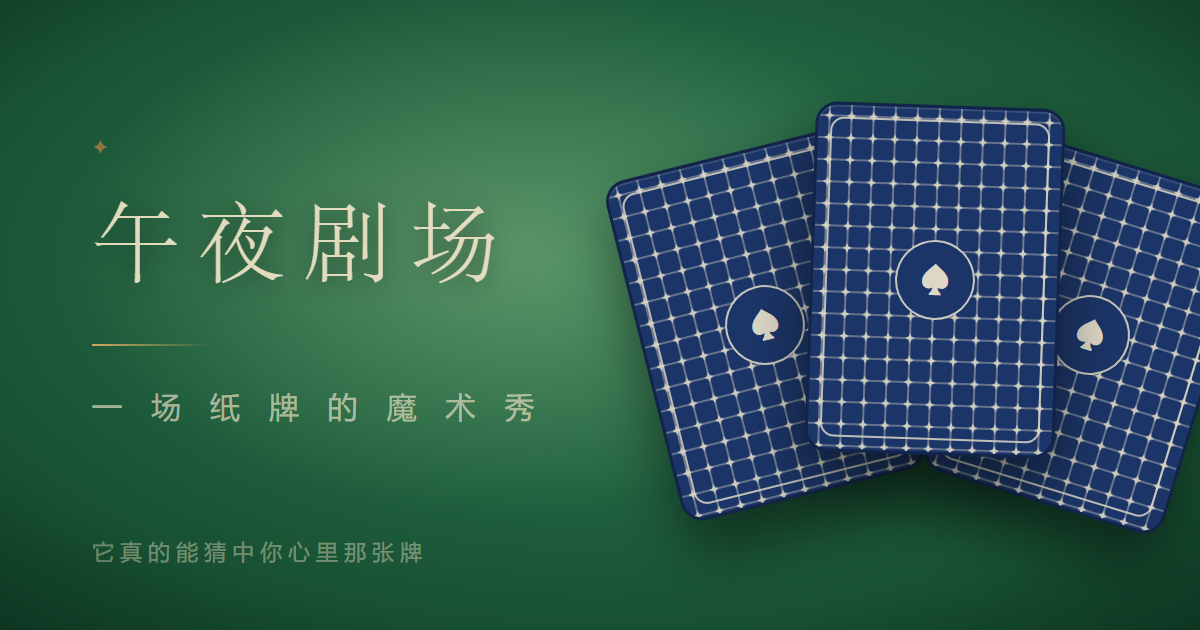
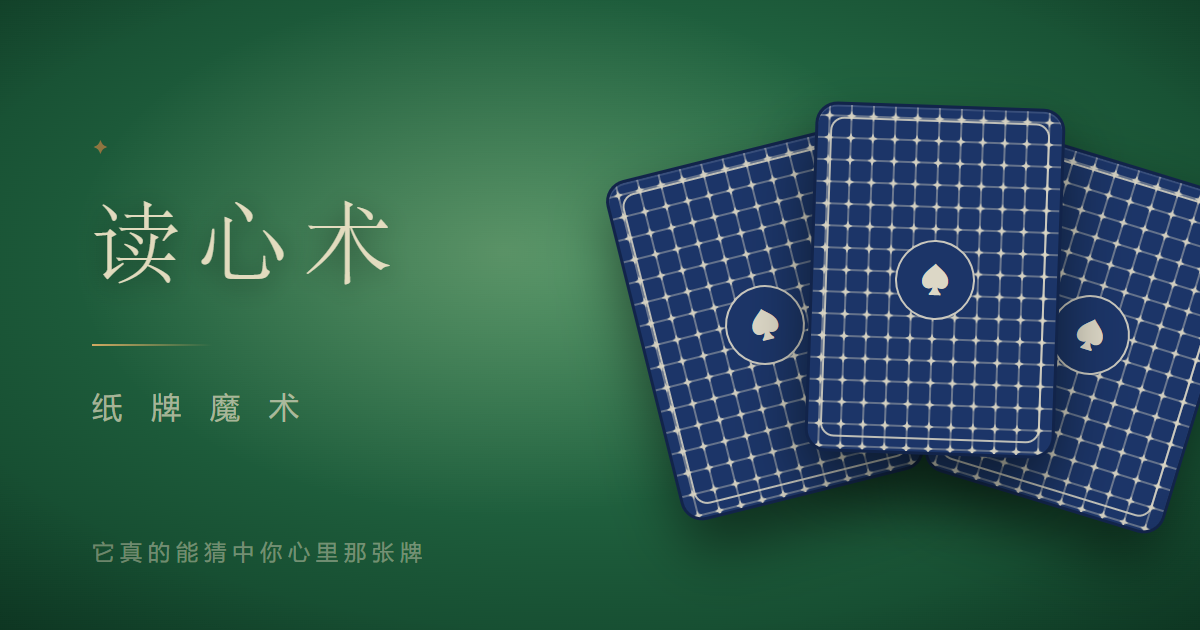
更名为「读心术-纸牌魔术」：页面标题/分享卡 meta/开场大字/分享图/双语字典/README

Changed region(s): [[0.0617, 0.3016, 0.4317, 0.4524], [0.0617, 0.6032, 0.4625, 0.6937]]

diff --git a/index.html b/index.html
@@ -5,12 +5,12 @@
   <meta name="viewport" content="width=device-width, initial-scale=1.0">
   <meta name="theme-color" content="#070b08">
   <meta name="description" content="在手机上就能玩的近景纸牌魔术——它真的能猜中你心里那张牌。纯前端，打开即玩。">
-  <title>午夜剧场 · 纸牌魔术秀</title>
+  <title>读心术-纸牌魔术</title>
 
   <!-- 分享卡片：微信/QQ/WhatsApp/Telegram/iMessage/Discord 抓取 -->
   <meta property="og:type" content="website">
-  <meta property="og:site_name" content="午夜剧场">
-  <meta property="og:title" content="午夜剧场 · 纸牌魔术秀">
+  <meta property="og:site_name" content="读心术">
+  <meta property="og:title" content="读心术-纸牌魔术">
   <meta property="og:description" content="在手机上就能玩的近景纸牌魔术——它真的能猜中你心里那张牌。">
   <meta property="og:url" content="https://1parado.github.io/card_magic/">
   <meta property="og:image" content="https://1parado.github.io/card_magic/assets/og-image.png">
@@ -18,7 +18,7 @@
   <meta property="og:image:height" content="630">
   <meta property="og:image:alt" content="三张白墨蓝背扑克牌扇开在祖母绿绒布牌桌上">
   <meta name="twitter:card" content="summary_large_image">
-  <meta name="twitter:title" content="午夜剧场 · 纸牌魔术秀">
+  <meta name="twitter:title" content="读心术-纸牌魔术">
   <meta name="twitter:description" content="在手机上就能玩的近景纸牌魔术——它真的能猜中你心里那张牌。">
   <meta name="twitter:image" content="https://1parado.github.io/card_magic/assets/og-image.png">
 

diff --git a/tools/gen-assets.js b/tools/gen-assets.js
@@ -1,18 +1,8 @@
 async page => {
-  // 生成分享图（1200×630）与 iOS 主屏图标（180×180）
+  // 重新生成分享图（1200×630）——文件协议直接读本地模板
   await page.setViewportSize({ width: 1200, height: 630 });
   await page.goto('file:///E:/纸牌魔术/tools/share-card.html');
   await page.waitForTimeout(600);
   await page.screenshot({ path: 'assets/og-image.png' });
-
-  // favicon / touch icon：绿底金桃心
-  await page.setContent(`<body style="margin:0"><div style="width:180px;height:180px;border-radius:40px;
-    background:radial-gradient(ellipse 100% 100% at 50% 40%, #2f8155 0%, #1c5939 60%, #0e3d26 100%);
-    display:flex;align-items:center;justify-content:center;">
-    <div style="font-size:104px;color:#d2aa62;text-shadow:0 4px 18px rgba(0,0,0,.5);">♠</div>
-  </div></body>`);
-  await page.waitForTimeout(300);
-  await page.screenshot({ path: 'assets/apple-touch-icon.png' });
-  await page.setViewportSize({ width: 1280, height: 720 });
-  return 'assets generated';
+  return 'og-image regenerated';
 }

diff --git a/js/i18n.js b/js/i18n.js
@@ -9,8 +9,8 @@
 const i18n = (() => {
   const dict = {
     zh: {
-      title: '午夜剧场 · 纸牌魔术秀',
-      overlayTitle: '午夜剧场',
+      title: '读心术-纸牌魔术',
+      overlayTitle: '读心术',
       enter: '入 场',
       act: { prologue: '序幕', reader: '读心术', curtain: '谢幕' },
       btn: { gather: '收起', gotIt: '记好了', again: '再来一次' },
@@ -40,8 +40,8 @@ const i18n = (() => {
       toast: '语言已切换，演出重新开始。',
     },
     en: {
-      title: 'The Card Room · A Card Magic Show',
-      overlayTitle: 'The Card Room',
+      title: 'Mind Reader - Card Magic',
+      overlayTitle: 'Mind Reader',
       enter: 'ENTER',
       act: { prologue: 'Prologue', reader: 'The Mind Reader', curtain: 'Curtain Call' },
       btn: { gather: 'Gather', gotIt: 'Got it', again: 'Play again' },

diff --git a/tools/share-card.html b/tools/share-card.html
@@ -59,9 +59,9 @@
     <div class="card c3"></div>
     <div class="brand">
       <div class="orn">✦</div>
-      <h1>午夜剧场</h1>
+      <h1>读心术</h1>
       <div class="rule"></div>
-      <div class="sub">一 场 纸 牌 的 魔 术 秀</div>
+      <div class="sub">纸 牌 魔 术</div>
     </div>
     <div class="foot">它真的能猜中你心里那张牌</div>
     <div class="vignette"></div>

diff --git a/README.md b/README.md
@@ -1,4 +1,4 @@
-# 午夜剧场 · 纸牌魔术秀
+# 读心术-纸牌魔术
 
 纯前端 3D 纸牌魔术网页：完整魔术秀（洗牌切牌展扇开场 →「27 张牌读心术」压轴 → 谢幕）。零依赖、无构建、离线可玩。
 
